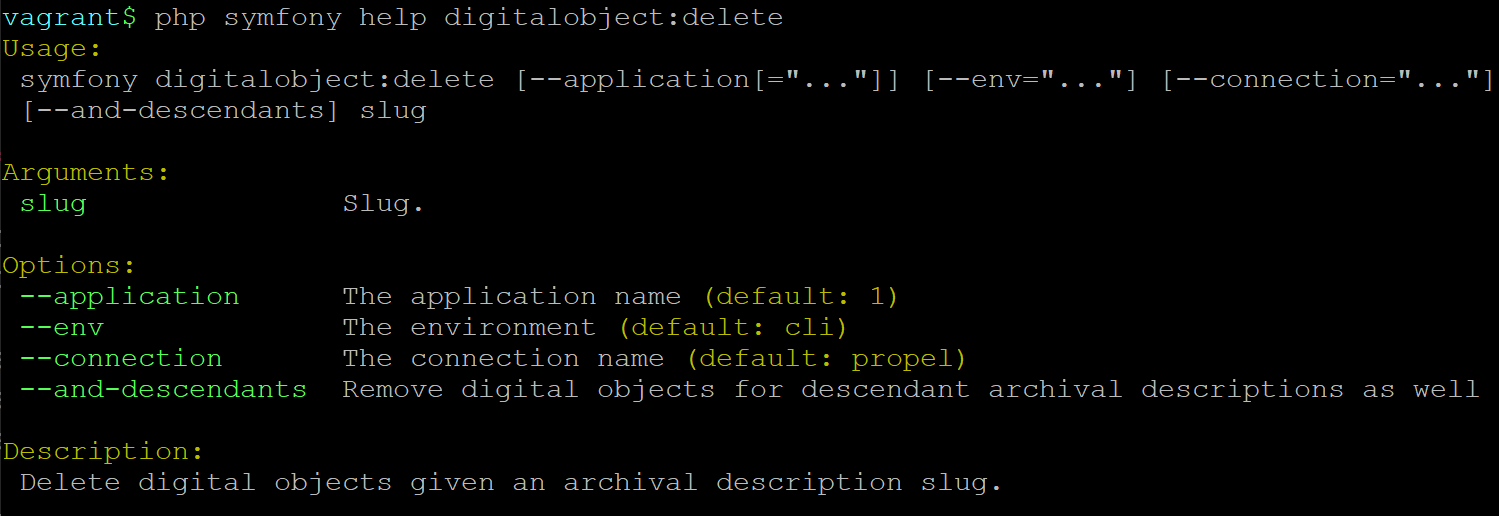
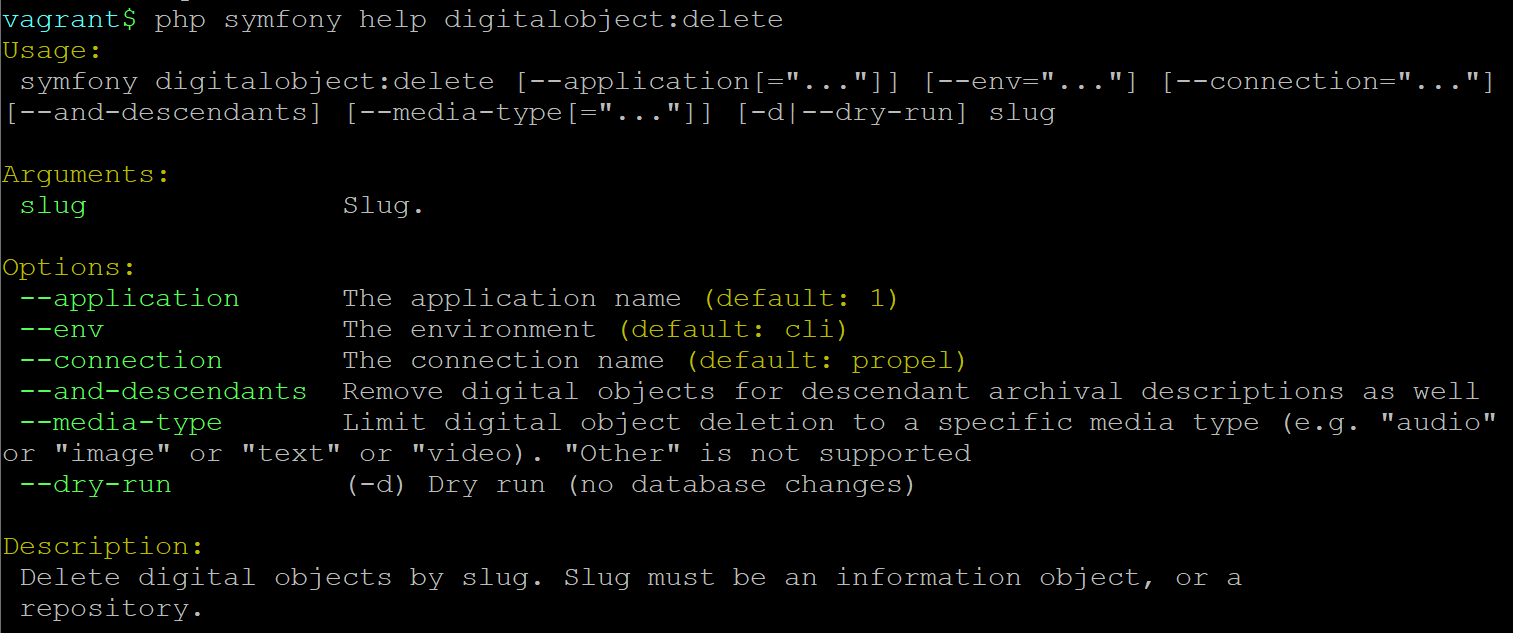
Update DO delete task, refs #13288

diff --git a/admin-manual/maintenance/cli-tools.rst b/admin-manual/maintenance/cli-tools.rst
@@ -1580,7 +1580,10 @@ You can delete a description's associated digital object from the command-line
 if you know the related description's :term:`slug`, using the 
 ``digitalobject:delete`` task. The task also includes an option to delete 
 digital objects from all descendant records, when a 
-:term:`parent <parent record>` description slug is provided.  
+:term:`parent <parent record>` description slug is provided. Alternatively, you 
+can delete **all** digital objects associated with a particular 
+:term:`archival institution` by prodiving the :term:`slug` of the associated
+:term:`repository` instead of a description slug.   
 
 .. TIP::
 
@@ -1596,9 +1599,10 @@ The basic syntax for the task is:
 
 .. code-block:: bash
 
-    php symfony digitalobject:delete slug-of-description
+    php symfony digitalobject:delete target-slug
 
-Where ``slug-of-description`` represents the slug of the target record. 
+Where ``target-slug`` represents the slug of the target record - either an 
+:term:`archival description` or an :term:`archival institution`. 
 
 By running ``php symfony help digitalobject:delete`` we can see the
 command-line's help output for the task:
@@ -1612,9 +1616,22 @@ The ``--application``, ``--env``, and ``connection`` options **should not be
 used** - AtoM requires the uses of the pre-set defaults for Symfony to be
 able to execute the task.
 
+The ``--dry-run`` option can be used to test the effects of the task by 
+reviewing the console output. When used, no deletions will take place and your
+data will be unchanged, but the console output will give you a count of affected
+records to review. An example output:
+
+.. image:: images/cli-delete-object-dry.*
+   :align: center
+   :width: 85%
+   :alt: An image of the command-line's dry run output for the digital object delete task
+
 **Deleting digital objects from a multi-level hierarchy**
 
-The task also include one user option, ``--and-descendants``, that can be used to delete all digital objects from an :term:`archival unit`. When using the ``--and-descendants`` option, the slug you provide should be for the top-level description in the hierarchy. Example use: 
+The task also includes the ``--and-descendants`` option, which can be used to
+delete all digital objects from all levels of an :term:`archival unit`. When
+using the ``--and-descendants`` option, the slug you provide should be for the
+top-level description in the hierarchy. Example use:
 
 .. code-block:: bash
 
@@ -1622,6 +1639,36 @@ The task also include one user option, ``--and-descendants``, that can be used t
 
 Where ``slug-of-top-description`` represents the slug of the top-level 
 :term:`parent <parent record>` description. 
+
+Additionally, the ``--media-types`` option can be used to target only a specific 
+type of digital object for deletion. Options supported are: 
+
+* audio
+* video
+* image
+* text
+* other
+
+Example usage - deleting only video files from all levels of an archival 
+hierarchy:
+
+.. code-block:: bash
+
+   php symfony digitalobject:delete --media-type="video" --and-descendants slug-of-top-description
+
+**Deleting all digital objects associated with a repository**
+
+Instead of providing an :term:`archival description` slug, you can provide the 
+:term:`slug` of an :term:`archival institution` (AKA repository) record to 
+delete **all** digital objects linked to descriptions associated with a 
+particular repository. When a repository slug is used, the ``--and-descendants`` 
+option will be ignored - by default, providing a repository slug means that ALL 
+associated digital objects at all levels will be deleted from the related 
+descriptions. 
+
+You can still use the ``--dry-run`` and ``--media-types`` options when providing 
+an archival institution slug. 
+
 
 .. IMPORTANT::
 
